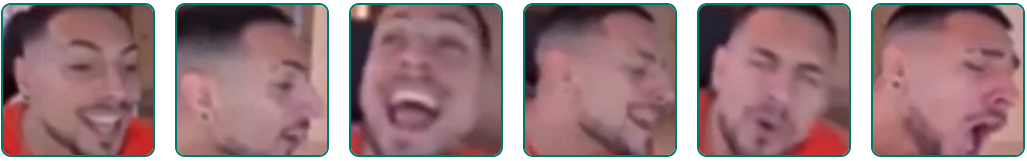
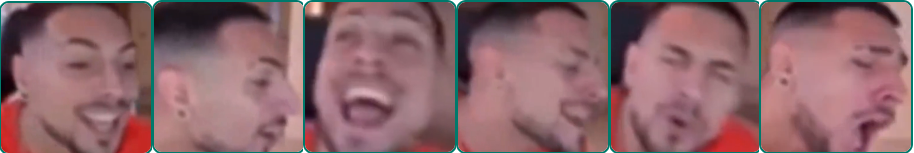
Add files via upload

diff --git a/style.css b/style.css
@@ -24,6 +24,27 @@ h1 {
     text-shadow: 1px 1px 2px rgba(0, 0, 0, 0.2);
 }
 
+.title-container {
+    display: flex;
+    flex-wrap: wrap;
+    justify-content: center;
+    gap: 20px;
+    margin-bottom: 8px;
+}
+
+.title-wrapper {
+    display: flex;
+    flex-direction: column;
+    align-items: center;
+    width: 150px;
+}
+
+.title {
+    font-size: 20px;
+    color: #004d40;
+    font-weight: bold;
+}
+
 .button-container {
     display: flex;
     flex-wrap: wrap;
@@ -53,23 +74,12 @@ h1 {
     border: 3px solid #004d40;
     border-radius: 15px;
     transition: transform 0.3s ease, box-shadow 0.3s ease;
-    position: relative; /* Permite agregar elementos superpuestos */
+    position: relative;
 }
 
 .img-button:active {
     transform: scale(0.95);
     box-shadow: 0 4px 12px rgba(0, 0, 0, 0.2);
-}
-
-.img-button::before {
-
-}
-
-.title {
-    font-size: 20px;
-    color: #004d40;
-    font-weight: bold;
-    margin-top: 8px;
 }
 
 .full-button-container {
@@ -83,25 +93,24 @@ h1 {
     display: flex;
     flex-direction: row;
     align-items: center;
-    gap: 0px; /* Espaciado entre imágenes */
+    width: auto;
+    justify-content: center;
+    gap: 5px;
 }
 
 .small-img-button {
-    width: 150px;
-    height: 150px;
+    width: 50px;
+    height: 50px;
     object-fit: cover;
-    border: 2px solid #004d40;
-    border-radius: 10px;
+    cursor: pointer;
+    border: 3px solid #004d40;
+    border-radius: 15px;
+    transition: transform 0.3s ease, box-shadow 0.3s ease;
 }
 
-.full-title-wrapper {
-    margin-bottom: 10px;
-}
-
-.full-title-wrapper .title {
-    font-size: 24px;
-    color: #004d40;
-    font-weight: bold;
+.small-img-button:active {
+    transform: scale(0.95);
+    box-shadow: 0 4px 12px rgba(0, 0, 0, 0.2);
 }
 
 .full-width-button {
